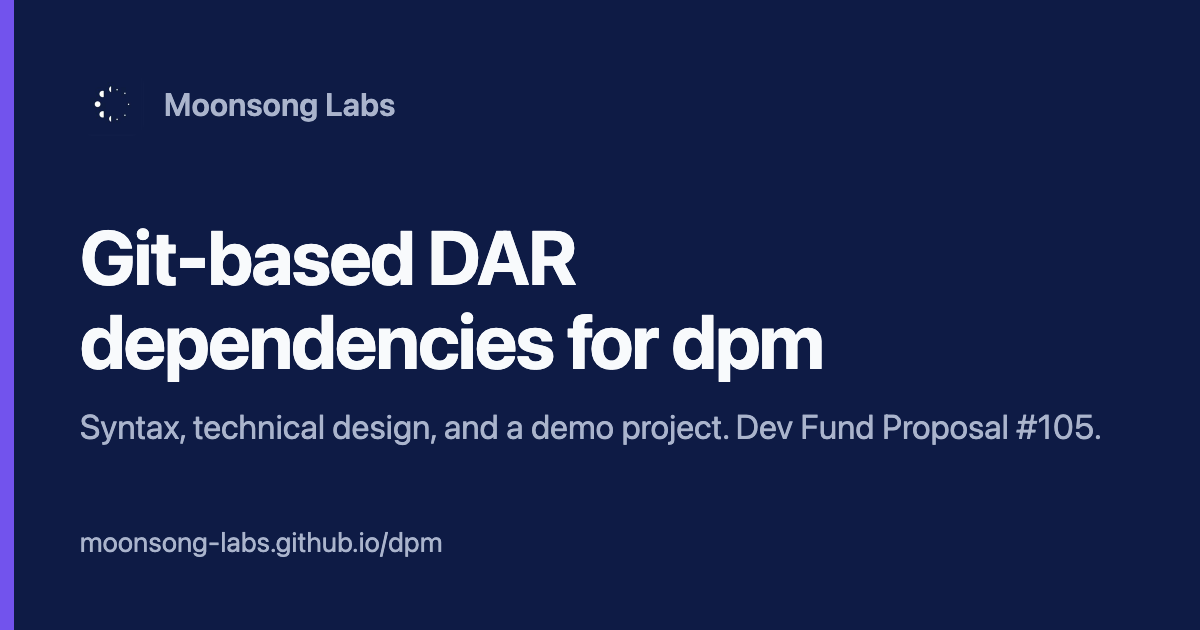
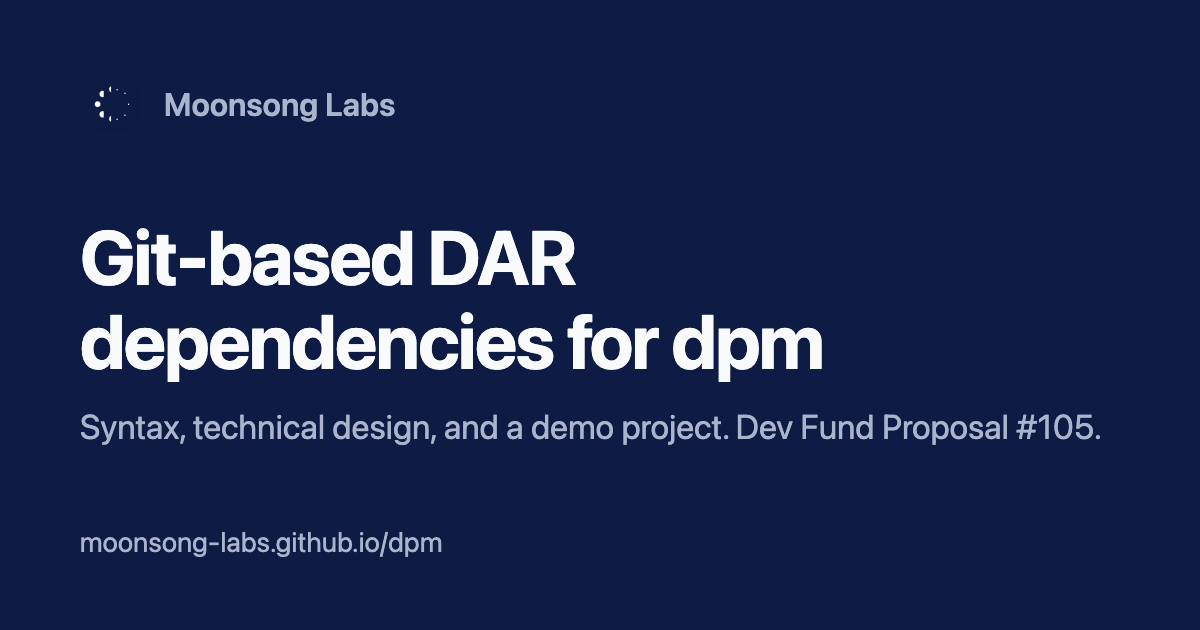
docs: drop accent bar from share image

Changed region(s): [[0.0, 0.0, 0.0308, 1.0]]

diff --git a/assets/og/og-template.html b/assets/og/og-template.html
@@ -6,7 +6,7 @@
 <head>
 <meta charset="utf-8" />
 <style>
-  :root { --bg: #0e1b45; --fg: #f8fafc; --muted: #aab4cc; --accent: #7253ed; }
+  :root { --bg: #0e1b45; --fg: #f8fafc; --muted: #aab4cc; }
   * { margin: 0; box-sizing: border-box; }
   body {
     width: 1200px; height: 630px; overflow: hidden;
@@ -23,11 +23,9 @@
   .sub { font-size: 34px; color: var(--muted); margin-top: 24px; }
   .footer { display: flex; align-items: center; justify-content: space-between; }
   .url { font-size: 28px; color: var(--muted); }
-  .accent-bar { position: absolute; left: 0; top: 0; bottom: 0; width: 14px; background: var(--accent); }
 </style>
 </head>
 <body>
-  <div class="accent-bar"></div>
   <div class="logo">
     <img src="../msl-icon.png" alt="" />
     <span>Moonsong Labs</span>
